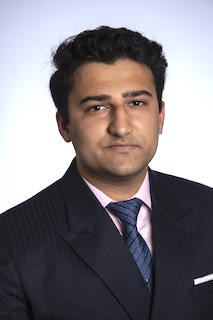
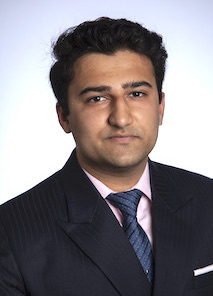
image added

diff --git a/index.html b/index.html
@@ -16,9 +16,12 @@
 				<!-- Header -->
 					<header id="header" class="alt">
 						<!--span class="image"><img src="images/me2.jpeg" alt="" /></span-->
+						<image src="images/me2.jpeg"></image>
+						
 						<h1>Nishit Chaudhry</h1>
 						<p style='font-weight: 500;'>Data Enthusiast | Avid Learner | Curious</p>
-						<p>Hey there! I am a Data Scientist who loves to solve complex and challenging business problems using cutting-edge Machine Learning techniques. I am currently pursuing Master's Degree at SUNY, Buffalo.
+						<p>
+							Hey there! I am a Data Scientist who loves to solve complex and challenging business problems using cutting-edge Machine Learning techniques. I am currently pursuing Master's Degree at SUNY, Buffalo.
 							I enjoy exploring data and deriving useful insights using the right tools, to present ideas that can help businesses optimize decision-making.
 						</p>
 						<section>
